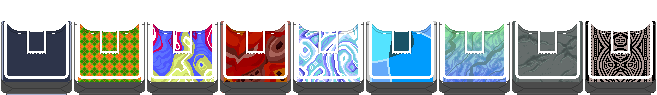
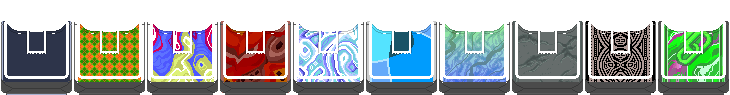
Fusion Deck: every Joker offered arrives already merged
Hooked on create_card, because that is the one funnel the shop, the
Buffoon Packs and the consumables that make Jokers all come through.
A Joker made by another Joker comes through it too and is fused as
well; there is no telling those apart from a consumable's, since both
are built inside a queued event long after the thing that asked for
them returned.

The merge is Bind's own, told the card is being BORN merged rather
than merged in the row. Everything about the pair is the same either
way. What `fresh` skips is the CATCHING UP a row merge exists to do,
because a Joker in a shop has not entered the deck yet and
Card:add_to_deck - already Bind-aware - is what gives it both halves'
passives at the moment it is bought. Ten of the fourteen on_merge
callbacks are that catch-up and are told too; two of them write
vanilla's own h_size and d_size fields first, and those writes stay,
because they are how the pair applies itself on arrival.

Two of the skips are things a row merge does that would cost the
player something here. resolve_edition is a coin-flip between two real
editions and a stand-in partner has none, so flipping anyway would
take a Polychrome off a shop Joker half the time. And a passive
applied at merge time would be granted for a Joker still sitting in a
shop, then granted again when it was bought.

The partner is rolled through create_card, so it is a random Joker in
the sense the game means - rarity weights, banned keys, Showman, pool
[…]

diff --git a/tools/gen_roster.py b/tools/gen_roster.py
@@ -3488,6 +3488,13 @@ LOC_TAIL = '''        },
                     "{C:attention}+1{} consumable slot",
                 },
             },
+            b_celesta_fusion = {
+                name = "Fusion Deck",
+                text = {
+                    "Every {C:attention}Joker{} offered arrives",
+                    "already {C:attention}merged{} with another random {C:attention}Joker{}",
+                },
+            },
         },
 
         -- Card Sleeves (items/sleeves.lua). Each sleeve says what its deck
@@ -3634,6 +3641,20 @@ LOC_TAIL = '''        },
                     "the {C:attention}Deck of Sins{}",
                 },
             },
+            sleeve_celesta_fusion = {
+                name = "Fusion Sleeve",
+                text = {
+                    "Every {C:attention}Joker{} offered arrives",
+                    "already {C:attention}merged{} with another random {C:attention}Joker{}",
+                },
+            },
+            sleeve_celesta_fusion_alt = {
+                name = "Fusion Sleeve",
+                text = {
+                    "No extra effect with",
+                    "the {C:attention}Fusion Deck{}",
+                },
+            },
         },
 
         Mod = {
@@ -3653,7 +3674,7 @@ LOC_TAIL = '''        },
                     "- {C:spectral}Lost Soul{} turns a Joker into its",
                     "  harder, worse-tempered {C:attention}Lost{} version",
                     "- {C:attention}3{} suits, {C:attention}8{} enhancements, {C:attention}5{} seals",
-                    "- {C:attention}9{} decks, {C:attention}12{} Boss Blinds, {C:attention}2{} challenges",
+                    "- {C:attention}10{} decks, {C:attention}12{} Boss Blinds, {C:attention}2{} challenges",
                     "- {C:attention}16{} consumables, plus {C:attention}13{} {C:attention}Stamps{}",
                 },
             },

diff --git a/tools/gen_decks.py b/tools/gen_decks.py
@@ -41,6 +41,7 @@ DECKS = [
     ("verdant", "verdant"),
     ("rock", "rock"),
     ("sins", "sins"),
+    ("fusion", "fusion"),
 ]
 
 

diff --git a/README.md b/README.md
@@ -41,7 +41,7 @@ made it.
 - **3 new suits**
 - **8 new enhancements**
 - **5 new seals**
-- **9 new decks**
+- **10 new decks**
 - **12 new Boss Blinds**
 - **16 new consumables**, plus a new type of consumable with 13 cards and its
   own booster pack
